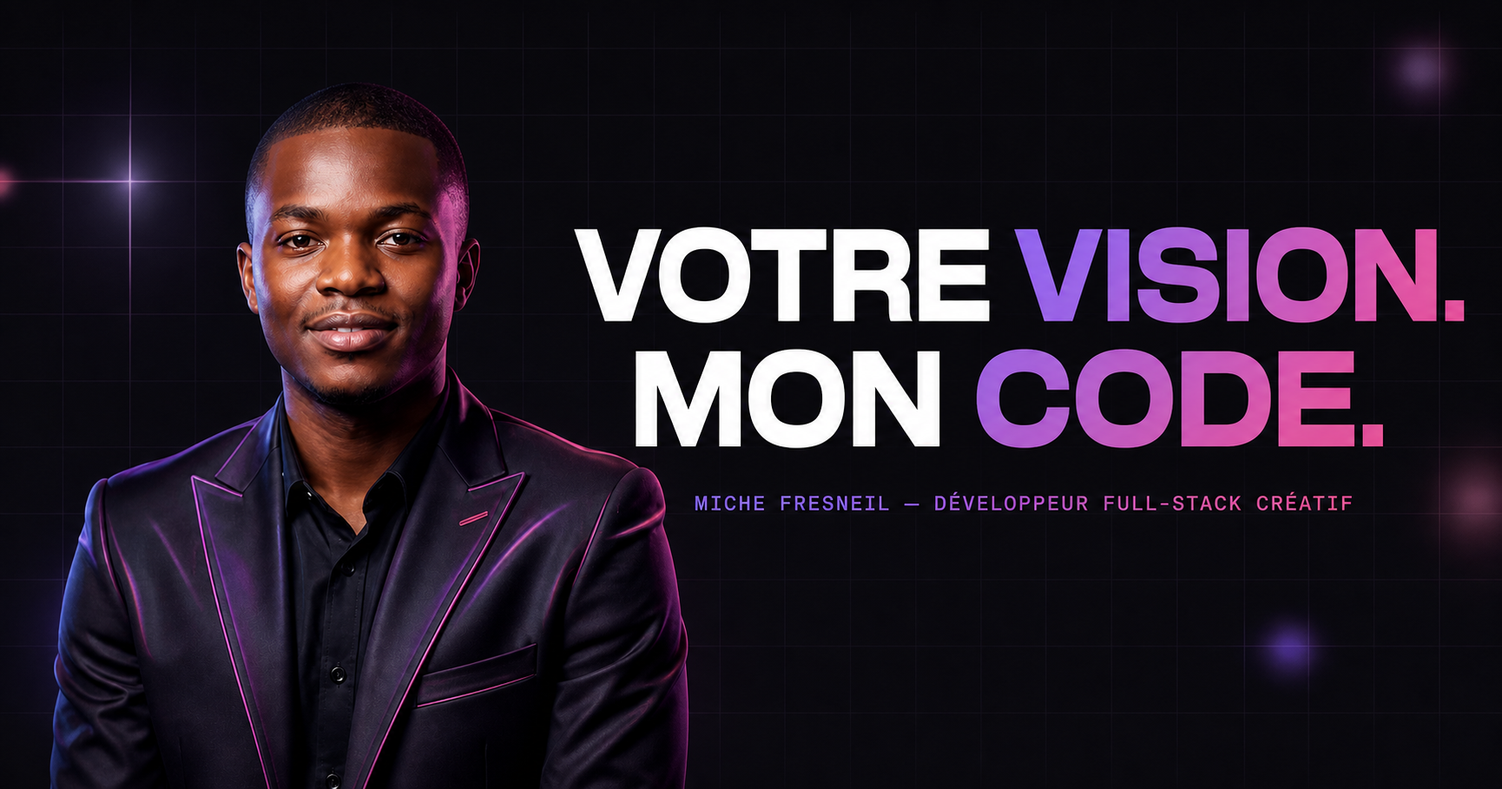
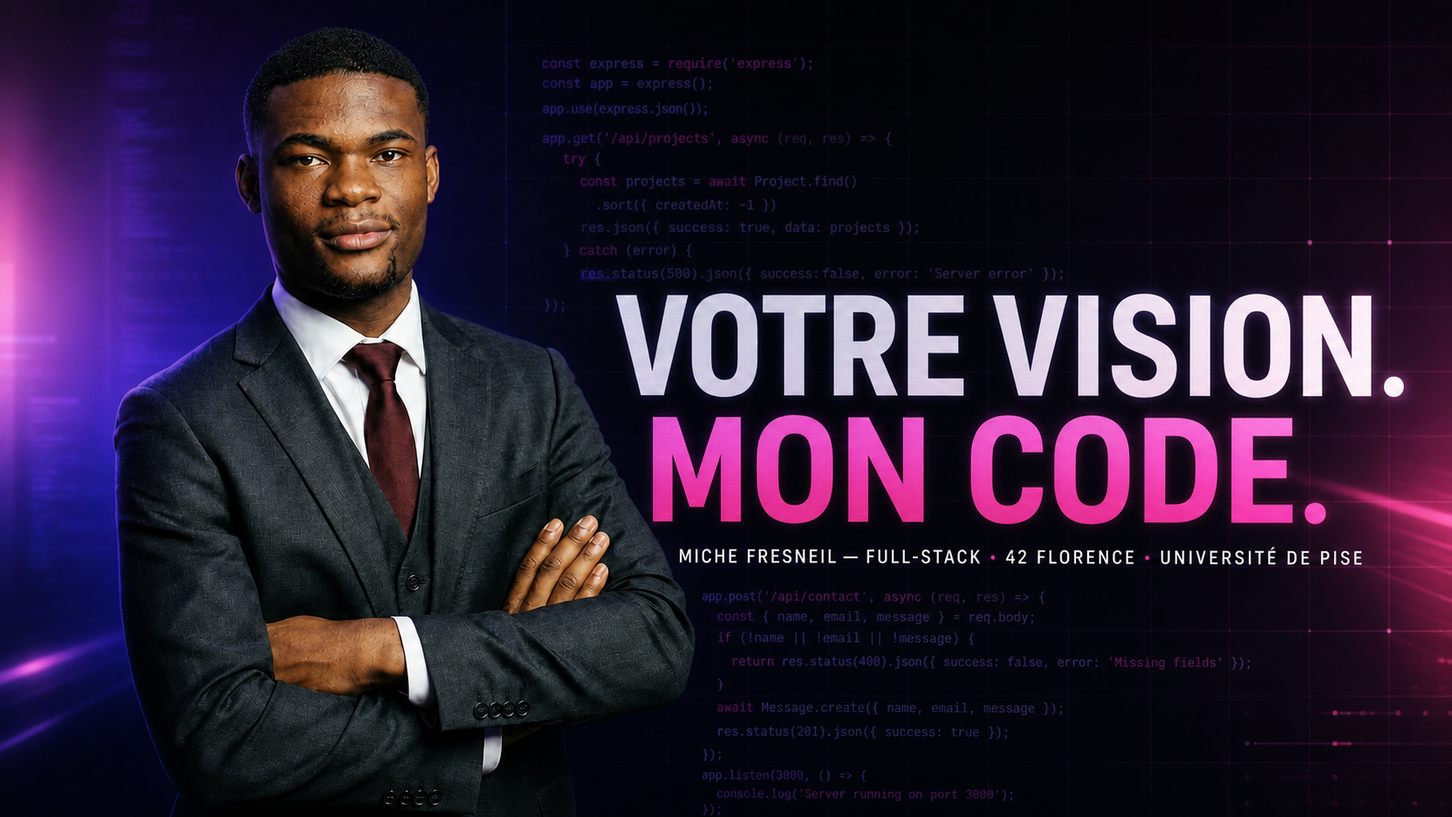
Use real portrait and expand portfolio story

diff --git a/public/portfolio.html b/public/portfolio.html
@@ -417,6 +417,15 @@
   .about-body { color:var(--muted); line-height:1.8; font-size:.92rem; max-width:580px; }
   .project-image { height:190px; width:100%; object-fit:cover; display:block; background:#08080c; }
   .project-image.contain { object-fit:contain; padding:1.4rem; }
+  .code-rain{position:absolute;inset:0;overflow:hidden;pointer-events:none;z-index:0;font-family:'Space Mono',monospace;color:rgba(167,139,250,.11);font-size:clamp(.62rem,1vw,.78rem);line-height:2.1}
+  .code-rain span{position:absolute;white-space:pre;animation:codeFloat 12s ease-in-out infinite}
+  .code-rain span:nth-child(1){left:3%;top:18%}.code-rain span:nth-child(2){right:2%;top:26%;animation-delay:-3s}.code-rain span:nth-child(3){left:7%;bottom:12%;animation-delay:-6s}.code-rain span:nth-child(4){right:5%;bottom:15%;animation-delay:-9s}
+  @keyframes codeFloat{0%,100%{transform:translateY(0);opacity:.45}50%{transform:translateY(-22px);opacity:1}}
+  .project-story{color:var(--muted);font-size:.8rem;line-height:1.72}.project-story strong{color:var(--violet-light)}
+  .career-meta{color:var(--muted);font-size:.74rem;font-family:'Space Mono',monospace;margin-top:.25rem}
+  .experience-code{background:#0a0a0e;border:1px solid var(--border);border-radius:14px;overflow:hidden;box-shadow:0 25px 60px rgba(0,0,0,.25)}
+  .code-window-bar{height:44px;border-bottom:1px solid var(--border);display:flex;align-items:center;gap:7px;padding:0 16px}.code-window-bar span{width:9px;height:9px;border-radius:50%;background:#ec4899}.code-window-bar span:nth-child(2){background:#f59e0b}.code-window-bar span:nth-child(3){background:#4ade80}.code-window-bar small{margin-left:auto;color:var(--muted);font-family:'Space Mono',monospace}
+  .experience-code pre{padding:2rem;overflow:auto;color:#cbd5e1;font-family:'Space Mono',monospace;font-size:.78rem;line-height:2}.code-purple{color:#a78bfa}.code-pink{color:#f472b6}.code-green{color:#4ade80}
   @media(max-width:768px){.personal-hero{padding-top:6.5rem}.personal-title{font-size:clamp(3rem,16vw,5.5rem)}.profile-grid{grid-template-columns:1fr;max-width:520px}.portrait-card{min-height:360px}.about-card{padding:1rem 0 0}}
 </style>
 </head>
@@ -474,6 +483,12 @@
 <!-- ══════════ HERO ══════════ -->
 <section id="hero" class="personal-hero flex flex-col justify-center items-center relative px-6 overflow-hidden">
   <div style="position:absolute;inset:0;background-image:linear-gradient(rgba(139,92,246,.045) 1px,transparent 1px),linear-gradient(90deg,rgba(139,92,246,.045) 1px,transparent 1px);background-size:60px 60px;pointer-events:none;"></div>
+  <div class="code-rain" aria-hidden="true">
+    <span>const vision = await imagine();<br>const produit = build(vision);</span>
+    <span>projects.map(project =&gt; ship(project));<br>if (idea) code();</span>
+    <span>fetch('/api/ambition')<br>&nbsp;&nbsp;.then(response =&gt; response.json());</span>
+    <span>function createFuture() {<br>&nbsp;&nbsp;return design + code + impact;<br>}</span>
+  </div>
   <div class="flex items-center gap-2 mb-8 relative z-10" data-aos="fade-down"><span class="relative flex h-2 w-2"><span class="animate-ping absolute inline-flex h-full w-full rounded-full bg-green-400 opacity-75"></span><span class="relative inline-flex rounded-full h-2 w-2 bg-green-400"></span></span><span style="font-family:'Space Mono',monospace;font-size:.68rem;letter-spacing:.16em;color:var(--muted);">DISPONIBLE POUR MISSION</span></div>
   <div class="personal-title font-extrabold uppercase text-center relative z-10" data-aos="fade-up"><div>VOTRE <span class="gradient-sub">VISION.</span></div><div>MON <span class="gradient-sub">CODE.</span></div></div>
   <div class="profile-grid relative z-10">
@@ -502,224 +517,61 @@
 
 <!-- ══════════ EXPERTISE ══════════ -->
 <section id="expertise" class="max-w-6xl mx-auto px-6 py-24">
-  <div class="mb-14" data-aos="fade-up">
-    <p class="section-label mb-4">expertise</p>
-    <h2 class="text-4xl font-extrabold leading-tight">Ce que je <span class="gradient-sub">maîtrise</span></h2>
+  <div class="mb-14" data-aos="fade-up"><p class="section-label mb-4">expertise</p><h2 class="text-4xl font-extrabold leading-tight">Compétences acquises <span class="gradient-sub">sur le terrain</span></h2><p class="mt-4 max-w-2xl" style="color:var(--muted);line-height:1.8;">Une stack construite depuis 2023 en développant des produits éducatifs, fintech, mobiles et des plateformes de gestion complètes.</p></div>
+  <div class="grid md:grid-cols-2 gap-5">
+    <article class="expertise-card" data-aos="fade-up"><div class="bg-code"><div>&lt;Next.js /&gt;</div><div>React 19</div><div>TypeScript</div></div><h3 class="text-xl font-bold mb-3">Frontend & Expérience</h3><p class="text-sm mb-4" style="color:var(--muted);line-height:1.7;">Interfaces web responsives, composants réutilisables, visualisation de données et design systems cohérents.</p><div><span class="tag">Next.js</span><span class="tag">React</span><span class="tag">TypeScript</span><span class="tag">Tailwind CSS</span><span class="tag">Recharts</span><span class="tag">Figma</span></div></article>
+    <article class="expertise-card" data-aos="fade-up" data-aos-delay="60"><div class="bg-code"><div>api.get()</div><div>queue.add()</div><div>z.object()</div></div><h3 class="text-xl font-bold mb-3">Backend, API & Cloud</h3><p class="text-sm mb-4" style="color:var(--muted);line-height:1.7;">APIs typées, validation, files de tâches, cache, observabilité et déploiements de services fiables.</p><div><span class="tag">Node.js</span><span class="tag">Hono</span><span class="tag">Zod</span><span class="tag">Redis</span><span class="tag">BullMQ</span><span class="tag">Sentry</span></div></article>
+    <article class="expertise-card" data-aos="fade-up"><div class="bg-code"><div>SELECT *</div><div>RLS policy</div><div>pgvector</div></div><h3 class="text-xl font-bold mb-3">Données, Auth & Paiement</h3><p class="text-sm mb-4" style="color:var(--muted);line-height:1.7;">Modélisation PostgreSQL, sécurité par rôles, authentification, stockage et intégration de paiements internationaux et Mobile Money.</p><div><span class="tag">Supabase</span><span class="tag">PostgreSQL</span><span class="tag">RLS</span><span class="tag">Stripe</span><span class="tag">CinetPay</span><span class="tag">JWT</span></div></article>
+    <article class="expertise-card" data-aos="fade-up" data-aos-delay="60"><div class="bg-code"><div>expo start</div><div>offline-first</div><div>sync()</div></div><h3 class="text-xl font-bold mb-3">Mobile, IA & Ingénierie</h3><p class="text-sm mb-4" style="color:var(--muted);line-height:1.7;">Applications mobiles offline-first, assistants IA, monorepos et pratiques de développement apprises en projets et à la Piscine 42.</p><div><span class="tag">React Native</span><span class="tag">Expo</span><span class="tag">WatermelonDB</span><span class="tag">Gemini AI</span><span class="tag">Git</span><span class="tag">C / Unix</span></div></article>
   </div>
-
-  <div class="grid md:grid-cols-3 gap-5">
-
-    <!-- Card 1: Frontend -->
-    <div class="expertise-card" data-aos="fade-up" data-aos-delay="0">
-      <div class="bg-code">
-        <div>&lt;h3&gt;</div>
-        <div>&lt;section&gt;</div>
-        <div>&lt;html&gt;</div>
-        <div>&lt;/div&gt;</div>
-        <div>&lt;style&gt;</div>
-      </div>
-      <div class="icon-wrap">
-        <svg width="22" height="22" viewBox="0 0 24 24" fill="none" stroke="#8b5cf6" stroke-width="1.8"><path d="M3 12l2-2m0 0l7-7 7 7M5 10v10a1 1 0 001 1h3m10-11l2 2m-2-2v10a1 1 0 01-1 1h-3m-6 0a1 1 0 001-1v-4a1 1 0 011-1h2a1 1 0 011 1v4a1 1 0 001 1m-6 0h6"/></svg>
-      </div>
-      <h3 class="text-lg font-bold mb-2">Frontend & UI</h3>
-      <p class="text-sm mb-4" style="color:var(--muted);line-height:1.7;">Interfaces pixel-perfect, animations fluides, expériences utilisateur mémorables sur tous les écrans.</p>
-      <div>
-        <span class="tag">HTML5</span><span class="tag">CSS3</span><span class="tag">Tailwind</span>
-        <span class="tag">React</span><span class="tag">JavaScript</span><span class="tag">GSAP</span>
-      </div>
-    </div>
-
-    <!-- Card 2: Backend -->
-    <div class="expertise-card" data-aos="fade-up" data-aos-delay="100">
-      <div class="bg-code">
-        <div>const app =</div>
-        <div>express()</div>
-        <div>.listen()</div>
-        <div>router.get</div>
-        <div>MongoDB</div>
-      </div>
-      <div class="icon-wrap">
-        <svg width="22" height="22" viewBox="0 0 24 24" fill="none" stroke="#8b5cf6" stroke-width="1.8"><rect x="2" y="3" width="20" height="14" rx="2"/><path d="M8 21h8M12 17v4"/></svg>
-      </div>
-      <h3 class="text-lg font-bold mb-2">Backend & API</h3>
-      <p class="text-sm mb-4" style="color:var(--muted);line-height:1.7;">APIs RESTful robustes, gestion de bases de données, authentification sécurisée et déploiement cloud.</p>
-      <div>
-        <span class="tag">Node.js</span><span class="tag">Express</span><span class="tag">MongoDB</span>
-        <span class="tag">Railway</span><span class="tag">JWT</span><span class="tag">REST</span>
-      </div>
-    </div>
-
-    <!-- Card 3: Mobile / Design -->
-    <div class="expertise-card" data-aos="fade-up" data-aos-delay="200">
-      <div class="bg-code">
-        <div>@media</div>
-        <div>screen and</div>
-        <div>(mobile)</div>
-        <div>flex-col</div>
-        <div>responsive</div>
-      </div>
-      <div class="icon-wrap">
-        <svg width="22" height="22" viewBox="0 0 24 24" fill="none" stroke="#8b5cf6" stroke-width="1.8"><rect x="5" y="2" width="14" height="20" rx="2"/><path d="M12 18h.01"/></svg>
-      </div>
-      <h3 class="text-lg font-bold mb-2">Design Responsive</h3>
-      <p class="text-sm mb-4" style="color:var(--muted);line-height:1.7;">Conceptions adaptées à tous les supports : mobile, tablette, desktop. Fidèle aux maquettes Figma.</p>
-      <div>
-        <span class="tag">Figma</span><span class="tag">Mobile-first</span><span class="tag">GitHub Pages</span>
-        <span class="tag">PWA</span><span class="tag">SEO</span>
-      </div>
-    </div>
-  </div>
-
-  <!-- Stats row -->
-  <div class="grid grid-cols-2 md:grid-cols-4 gap-4 mt-10" data-aos="fade-up" data-aos-delay="100">
-    <div class="text-center p-5 rounded-xl" style="background:var(--surface);border:1px solid var(--border);">
-      <div class="text-3xl font-extrabold" style="color:var(--violet);">12+</div>
-      <div class="text-xs mt-1" style="color:var(--muted);font-family:'Space Mono',monospace;">Projets livrés</div>
-    </div>
-    <div class="text-center p-5 rounded-xl" style="background:var(--surface);border:1px solid var(--border);">
-      <div class="text-3xl font-extrabold" style="color:var(--pink);">3+</div>
-      <div class="text-xs mt-1" style="color:var(--muted);font-family:'Space Mono',monospace;">Années d'XP</div>
-    </div>
-    <div class="text-center p-5 rounded-xl" style="background:var(--surface);border:1px solid var(--border);">
-      <div class="text-3xl font-extrabold" style="color:var(--violet);">100%</div>
-      <div class="text-xs mt-1" style="color:var(--muted);font-family:'Space Mono',monospace;">Satisfaction</div>
-    </div>
-    <div class="text-center p-5 rounded-xl" style="background:var(--surface);border:1px solid var(--border);">
-      <div class="text-3xl font-extrabold" style="color:var(--pink);">∞</div>
-      <div class="text-xs mt-1" style="color:var(--muted);font-family:'Space Mono',monospace;">Passion</div>
-    </div>
+  <div class="grid grid-cols-2 md:grid-cols-4 gap-4 mt-8 text-center">
+    <div class="expertise-card"><div class="text-3xl font-extrabold gradient-sub">2023</div><div class="text-xs mt-2" style="color:var(--muted);">Début en programmation</div></div>
+    <div class="expertise-card"><div class="text-3xl font-extrabold gradient-sub">42</div><div class="text-xs mt-2" style="color:var(--muted);">Piscine Florence</div></div>
+    <div class="expertise-card"><div class="text-3xl font-extrabold gradient-sub">Pise</div><div class="text-xs mt-2" style="color:var(--muted);">Étudiant universitaire</div></div>
+    <div class="expertise-card"><div class="text-3xl font-extrabold gradient-sub">6+</div><div class="text-xs mt-2" style="color:var(--muted);">Produits réalisés</div></div>
   </div>
 </section>
 
 <!-- ══════════ WORK ══════════ -->
 <section id="work" class="max-w-6xl mx-auto px-6 py-24">
-  <div class="flex justify-between items-end mb-12 flex-wrap gap-4" data-aos="fade-up"><div><p class="section-label mb-4">travaux</p><h2 class="text-4xl font-extrabold">Projets <span class="gradient-sub">Sélectionnés</span></h2></div><p style="color:var(--muted);max-width:440px;font-size:.88rem;line-height:1.7;">Produits éducatifs, fintech, plateformes de gestion et expériences numériques développés au Congo.</p></div>
+  <div class="flex justify-between items-end mb-12 flex-wrap gap-4" data-aos="fade-up"><div><p class="section-label mb-4">travaux</p><h2 class="text-4xl font-extrabold">Projets <span class="gradient-sub">Sélectionnés</span></h2></div><p style="color:var(--muted);max-width:480px;font-size:.88rem;line-height:1.7;">Chaque projet m’a appris à transformer une difficulté technique ou métier en une solution plus simple et plus robuste.</p></div>
   <div class="flex gap-2 flex-wrap mb-8"><button class="filter-btn active" data-filter="all">Tous</button><button class="filter-btn" data-filter="education">Éducation</button><button class="filter-btn" data-filter="fintech">Fintech</button><button class="filter-btn" data-filter="web">Web</button><button class="filter-btn" data-filter="spirituel">Spirituel</button></div>
   <div class="grid md:grid-cols-2 lg:grid-cols-3 gap-5">
-    <article class="project-card" data-category="education mobile web" data-aos="fade-up"><img class="project-image contain" src="/projects/cognix.jpg" alt="Logo Cognix"><div class="p-5"><span class="tag">Éducation + IA</span><h3 class="font-bold text-xl mt-3 mb-2">Cognix</h3><p style="color:var(--muted);font-size:.82rem;line-height:1.65;">Application mobile et web de préparation au CEPE, BEPC et BAC au Congo, avec cours, examens et accompagnement intelligent.</p></div></article>
-    <article class="project-card" data-category="fintech web" data-aos="fade-up"><img class="project-image" src="/projects/alphapay.png" alt="Aperçu AlphaPay"><div class="p-5"><span class="tag">Fintech</span><h3 class="font-bold text-xl mt-3 mb-2">AlphaPay / PayBrain</h3><p style="color:var(--muted);font-size:.82rem;line-height:1.65;">Infrastructure de paiement sécurisée, routage intelligent et tableau de bord financier.</p></div></article>
-    <article class="project-card" data-category="education web" data-aos="fade-up"><img class="project-image" src="/projects/unigest.png" alt="Aperçu UniGest"><div class="p-5"><span class="tag">Gestion scolaire</span><h3 class="font-bold text-xl mt-3 mb-2">UniGest</h3><p style="color:var(--muted);font-size:.82rem;line-height:1.65;">Gestion académique connectée pour administrateurs, enseignants, étudiants et familles.</p></div></article>
-    <article class="project-card" data-category="education web" data-aos="fade-up"><img class="project-image" src="/projects/alpha-school.png" alt="Aperçu Alpha School"><div class="p-5"><span class="tag">Education SaaS</span><h3 class="font-bold text-xl mt-3 mb-2">Alpha School</h3><p style="color:var(--muted);font-size:.82rem;line-height:1.65;">Plateforme scolaire assistée par IA pour directions, enseignants, parents et apprenants.</p></div></article>
-    <article class="project-card" data-category="spirituel web" data-aos="fade-up"><div class="project-thumb" style="height:190px;background:linear-gradient(145deg,#180b25,#39134e);display:flex;align-items:center;justify-content:center;flex-direction:column;gap:10px;"><span style="font-size:3rem;color:#f4d06f;">✦</span><span style="font-family:'Space Mono',monospace;letter-spacing:.18em;color:#f4d06f;">CATHÉDRALE</span></div><div class="p-5"><span class="tag">Site spirituel</span><h3 class="font-bold text-xl mt-3 mb-2">Cathédrale</h3><p style="color:var(--muted);font-size:.82rem;line-height:1.65;">Une présence numérique solennelle dédiée aux célébrations et à la communauté d'une cathédrale.</p></div></article>
-    <article class="project-card" data-category="spirituel mobile web" data-aos="fade-up"><img class="project-image" src="/projects/alpha-omega.jpg" alt="Aperçu Alpha Omega"><div class="p-5"><span class="tag">Méditation</span><h3 class="font-bold text-xl mt-3 mb-2">Alpha Omega</h3><p style="color:var(--muted);font-size:.82rem;line-height:1.65;">Expérience numérique de méditation et de contenu spirituel pour la réflexion quotidienne.</p></div></article>
+    <article class="project-card" data-category="education mobile web" data-aos="fade-up"><img class="project-image contain" src="/projects/cognix.jpg" alt="Logo Cognix"><div class="p-5"><span class="tag">Next.js</span><span class="tag">Expo</span><span class="tag">Supabase</span><h3 class="font-bold text-xl mt-3 mb-2">Cognix</h3><p class="project-story"><strong>Défi :</strong> synchroniser cours, examens et progression entre web et mobile, même avec une connexion instable.<br><strong>Notion retenue :</strong> architecture offline-first, types partagés et sécurité RLS.</p></div></article>
+    <article class="project-card" data-category="fintech web" data-aos="fade-up"><img class="project-image" src="/projects/alphapay.png" alt="Aperçu AlphaPay"><div class="p-5"><span class="tag">TypeScript</span><span class="tag">Paiement</span><span class="tag">Monorepo</span><h3 class="font-bold text-xl mt-3 mb-2">AlphaPay / PayBrain</h3><p class="project-story"><strong>Défi :</strong> fiabiliser plusieurs parcours de paiement et garder une logique financière cohérente.<br><strong>Notion retenue :</strong> idempotence, traçabilité des transactions et séparation des domaines.</p></div></article>
+    <article class="project-card" data-category="education web" data-aos="fade-up"><img class="project-image" src="/projects/unigest.png" alt="Aperçu UniGest"><div class="p-5"><span class="tag">React</span><span class="tag">Supabase</span><span class="tag">RBAC</span><h3 class="font-bold text-xl mt-3 mb-2">UniGest</h3><p class="project-story"><strong>Défi :</strong> gérer des rôles très différents sans complexifier l’expérience utilisateur.<br><strong>Notion retenue :</strong> permissions par rôle, modèles de données partagés et validation automatisée.</p></div></article>
+    <article class="project-card" data-category="education web" data-aos="fade-up"><img class="project-image" src="/projects/alpha-school.png" alt="Aperçu Alpha School"><div class="p-5"><span class="tag">Next.js</span><span class="tag">IA</span><span class="tag">UX</span><h3 class="font-bold text-xl mt-3 mb-2">Alpha School</h3><p class="project-story"><strong>Défi :</strong> rendre l’assistance IA réellement utile aux enseignants et aux familles.<br><strong>Notion retenue :</strong> concevoir des workflows guidés, contextualiser l’IA et mesurer la valeur métier.</p></div></article>
+    <article class="project-card" data-category="spirituel web" data-aos="fade-up"><div class="project-thumb" style="height:190px;background:linear-gradient(145deg,#180b25,#39134e);display:flex;align-items:center;justify-content:center;flex-direction:column;gap:10px;"><span style="font-size:3rem;color:#f4d06f;">✦</span><span style="font-family:'Space Mono',monospace;letter-spacing:.18em;color:#f4d06f;">CATHÉDRALE</span></div><div class="p-5"><span class="tag">HTML</span><span class="tag">Responsive</span><span class="tag">Accessibilité</span><h3 class="font-bold text-xl mt-3 mb-2">Cathédrale</h3><p class="project-story"><strong>Défi :</strong> concilier une identité visuelle solennelle avec une navigation claire sur mobile.<br><strong>Notion retenue :</strong> hiérarchie typographique, sobriété visuelle et accessibilité du contenu.</p></div></article>
+    <article class="project-card" data-category="spirituel mobile web" data-aos="fade-up"><img class="project-image" src="/projects/alpha-omega.jpg" alt="Aperçu Alpha Omega"><div class="p-5"><span class="tag">Contenu</span><span class="tag">Mobile-first</span><span class="tag">Design</span><h3 class="font-bold text-xl mt-3 mb-2">Alpha Omega</h3><p class="project-story"><strong>Défi :</strong> présenter des méditations longues sans fatiguer la lecture quotidienne.<br><strong>Notion retenue :</strong> rythme éditorial, lisibilité, navigation mobile-first et cohérence émotionnelle.</p></div></article>
   </div>
 </section>
 
 <!-- ══════════ EXPERIENCE ══════════ -->
 <section id="experience" class="max-w-6xl mx-auto px-6 py-24">
-  <div class="mb-14" data-aos="fade-up">
-    <p class="section-label mb-4">parcours</p>
-    <h2 class="text-4xl font-extrabold">Mon <span class="gradient-sub">Expérience</span></h2>
-  </div>
-
-  <div class="grid md:grid-cols-2 gap-5">
-
-    <!-- Timeline left -->
+  <div class="mb-14" data-aos="fade-up"><p class="section-label mb-4">parcours</p><h2 class="text-4xl font-extrabold">Mon <span class="gradient-sub">Parcours</span></h2></div>
+  <div class="grid lg:grid-cols-2 gap-5">
     <div class="flex flex-col gap-4">
-
-      <div class="exp-block" data-aos="fade-right" data-aos-delay="0">
-        <div class="exp-header" onclick="toggleExp(this)">
-          <div class="flex items-center gap-4">
-            <div style="width:40px;height:40px;border-radius:8px;background:rgba(139,92,246,0.12);border:1px solid rgba(139,92,246,0.2);display:flex;align-items:center;justify-content:center;flex-shrink:0;">
-              <svg width="18" height="18" viewBox="0 0 24 24" fill="none" stroke="#8b5cf6" stroke-width="1.8"><path d="M10 20l4-16m4 4l4 4-4 4M6 16l-4-4 4-4"/></svg>
-            </div>
-            <div>
-              <div class="font-bold text-sm">Développeur Fullstack</div>
-              <div style="color:var(--muted);font-size:0.75rem;font-family:'Space Mono',monospace;">Projets Personnels · 2022 – présent</div>
-            </div>
-          </div>
-          <div class="plus-btn">+</div>
-        </div>
-        <div class="exp-body">
-          Conception et développement de multiples projets web fullstack autonomes : e-commerce, plateformes spirituelles, académies de formation. Stack principal : HTML/CSS/JS vanilla, Node.js, MongoDB, Railway.
-        </div>
-      </div>
-
-      <div class="exp-block" data-aos="fade-right" data-aos-delay="80">
-        <div class="exp-header" onclick="toggleExp(this)">
-          <div class="flex items-center gap-4">
-            <div style="width:40px;height:40px;border-radius:8px;background:rgba(236,72,153,0.1);border:1px solid rgba(236,72,153,0.2);display:flex;align-items:center;justify-content:center;flex-shrink:0;">
-              <svg width="18" height="18" viewBox="0 0 24 24" fill="none" stroke="#ec4899" stroke-width="1.8"><circle cx="12" cy="12" r="10"/><path d="M12 8v4l3 3"/></svg>
-            </div>
-            <div>
-              <div class="font-bold text-sm">Designer UI/UX</div>
-              <div style="color:var(--muted);font-size:0.75rem;font-family:'Space Mono',monospace;">Freelance · 2021 – présent</div>
-            </div>
-          </div>
-          <div class="plus-btn">+</div>
-        </div>
-        <div class="exp-body">
-          Création de maquettes Figma, design systems, prototypes interactifs. Spécialiste des interfaces dark mode avec des typographies distinctives et des animations CSS soignées.
-        </div>
-      </div>
-
-      <div class="exp-block" data-aos="fade-right" data-aos-delay="160">
-        <div class="exp-header" onclick="toggleExp(this)">
-          <div class="flex items-center gap-4">
-            <div style="width:40px;height:40px;border-radius:8px;background:rgba(16,185,129,0.1);border:1px solid rgba(16,185,129,0.2);display:flex;align-items:center;justify-content:center;flex-shrink:0;">
-              <svg width="18" height="18" viewBox="0 0 24 24" fill="none" stroke="#10b981" stroke-width="1.8"><path d="M21 15a2 2 0 0 1-2 2H7l-4 4V5a2 2 0 0 1 2-2h14a2 2 0 0 1 2 2z"/></svg>
-            </div>
-            <div>
-              <div class="font-bold text-sm">Contenu & Rédaction Spirituelle</div>
-              <div style="color:var(--muted);font-size:0.75rem;font-family:'Space Mono',monospace;">Brazzaville · 2020 – présent</div>
-            </div>
-          </div>
-          <div class="plus-btn">+</div>
-        </div>
-        <div class="exp-body">
-          Rédaction d'homélies catholiques, méditations bibliques, et réflexions spirituelles en français. Publication en ligne via GitHub Pages avec traduction multilingue.
-        </div>
-      </div>
+      <article class="exp-block open" data-aos="fade-right"><div class="exp-header" onclick="toggleExp(this)"><div><div class="font-bold">Développeur Full-Stack & Créateur de produits</div><div class="career-meta">2023 — aujourd’hui</div></div><div class="plus-btn">×</div></div><div class="exp-body open">Début de mon parcours en programmation en 2023. Depuis, je construis des applications web et mobiles complètes : interfaces, API, données, authentification, paiement, IA et déploiement.</div></article>
+      <article class="exp-block" data-aos="fade-right" data-aos-delay="60"><div class="exp-header" onclick="toggleExp(this)"><div><div class="font-bold">Piscine 42 Florence</div><div class="career-meta">Formation intensive</div></div><div class="plus-btn">+</div></div><div class="exp-body">Immersion dans le langage C, Unix, Git, algorithmique, gestion de mémoire et résolution de problèmes sous contrainte. Une expérience qui a renforcé mon autonomie, ma rigueur et le travail entre pairs.</div></article>
+      <article class="exp-block" data-aos="fade-right" data-aos-delay="120"><div class="exp-header" onclick="toggleExp(this)"><div><div class="font-bold">Étudiant — Université de Pise</div><div class="career-meta">Pise, Italie · en cours</div></div><div class="plus-btn">+</div></div><div class="exp-body">Mon parcours universitaire complète ma pratique par une méthode d’apprentissage structurée, une ouverture internationale et une capacité à relier théorie, recherche et réalisation concrète.</div></article>
     </div>
+    <div class="experience-code" data-aos="fade-left">
+      <div class="code-window-bar"><span></span><span></span><span></span><small>parcours.js</small></div>
+      <pre><code><span class="code-purple">const</span> miche = {
+  startedCoding: <span class="code-pink">2023</span>,
+  education: [
+    <span class="code-green">"42 Florence — Piscine"</span>,
+    <span class="code-green">"Université de Pise"</span>
+  ],
+  mindset: <span class="code-green">"learn, build, iterate"</span>,
+  location: <span class="code-green">"Pise ↔ Brazzaville"</span>
+};
 
-    <!-- Right: skills bars -->
-    <div data-aos="fade-left" data-aos-delay="100">
-      <div style="background:var(--surface);border:1px solid var(--border);border-radius:12px;padding:1.75rem;">
-        <h3 class="font-bold mb-6 text-sm" style="font-family:'Space Mono',monospace;letter-spacing:0.1em;color:var(--muted);">COMPÉTENCES TECHNIQUES</h3>
-        <div class="flex flex-col gap-5">
-          <div>
-            <div class="flex justify-between mb-2 text-sm"><span>HTML / CSS</span><span style="color:var(--violet);">96%</span></div>
-            <div style="height:4px;background:var(--border);border-radius:2px;"><div style="height:100%;width:96%;background:linear-gradient(90deg,var(--violet),var(--pink));border-radius:2px;transition:width 1.5s ease;"></div></div>
-          </div>
-          <div>
-            <div class="flex justify-between mb-2 text-sm"><span>JavaScript</span><span style="color:var(--violet);">88%</span></div>
-            <div style="height:4px;background:var(--border);border-radius:2px;"><div style="height:100%;width:88%;background:linear-gradient(90deg,var(--violet),var(--pink));border-radius:2px;"></div></div>
-          </div>
-          <div>
-            <div class="flex justify-between mb-2 text-sm"><span>Node.js / Express</span><span style="color:var(--violet);">80%</span></div>
-            <div style="height:4px;background:var(--border);border-radius:2px;"><div style="height:100%;width:80%;background:linear-gradient(90deg,var(--violet),var(--pink));border-radius:2px;"></div></div>
-          </div>
-          <div>
-            <div class="flex justify-between mb-2 text-sm"><span>MongoDB</span><span style="color:var(--violet);">75%</span></div>
-            <div style="height:4px;background:var(--border);border-radius:2px;"><div style="height:100%;width:75%;background:linear-gradient(90deg,var(--violet),var(--pink));border-radius:2px;"></div></div>
-          </div>
-          <div>
-            <div class="flex justify-between mb-2 text-sm"><span>React</span><span style="color:var(--violet);">68%</span></div>
-            <div style="height:4px;background:var(--border);border-radius:2px;"><div style="height:100%;width:68%;background:linear-gradient(90deg,var(--violet),var(--pink));border-radius:2px;"></div></div>
-          </div>
-          <div>
-            <div class="flex justify-between mb-2 text-sm"><span>Figma / Design</span><span style="color:var(--violet);">82%</span></div>
-            <div style="height:4px;background:var(--border);border-radius:2px;"><div style="height:100%;width:82%;background:linear-gradient(90deg,var(--violet),var(--pink));border-radius:2px;"></div></div>
-          </div>
-        </div>
-      </div>
-
-      <!-- Testimonial -->
-      <div style="background:var(--surface);border:1px solid var(--border);border-radius:12px;padding:1.75rem;margin-top:1.25rem;position:relative;overflow:hidden;">
-        <div style="position:absolute;top:-20px;left:-10px;font-size:8rem;color:rgba(139,92,246,0.06);font-family:Georgia,serif;line-height:1;">"</div>
-        <p style="color:var(--muted);font-size:0.9rem;line-height:1.8;font-style:italic;position:relative;">
-          "Une rigueur technique remarquable, un sens esthétique raffiné et une capacité à livrer des projets complets de A à Z. Toujours au rendez-vous."
-        </p>
-        <div class="flex items-center gap-3 mt-4">
-          <div style="width:36px;height:36px;border-radius:50%;background:linear-gradient(135deg,var(--violet),var(--pink));display:flex;align-items:center;justify-content:center;font-size:0.8rem;font-weight:700;">C</div>
-          <div>
-            <div class="text-sm font-bold">Client Anonyme</div>
-            <div style="color:var(--muted);font-size:0.7rem;font-family:'Space Mono',monospace;">Brazzaville, Congo</div>
-          </div>
-        </div>
-      </div>
+<span class="code-purple">async function</span> buildIdea(vision) {
+  <span class="code-purple">const</span> product = <span class="code-purple">await</span> design(vision);
+  <span class="code-purple">return</span> code(product);
+}</code></pre>
     </div>
-
   </div>
 </section>
 
